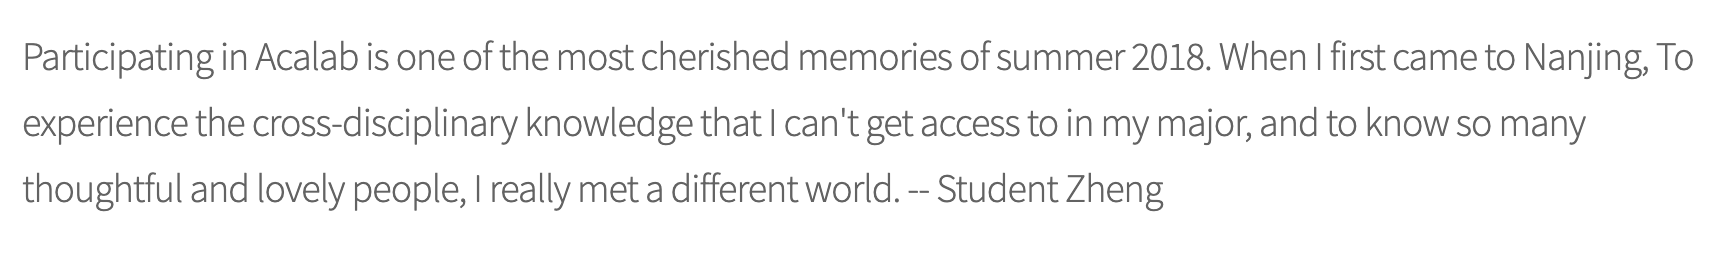
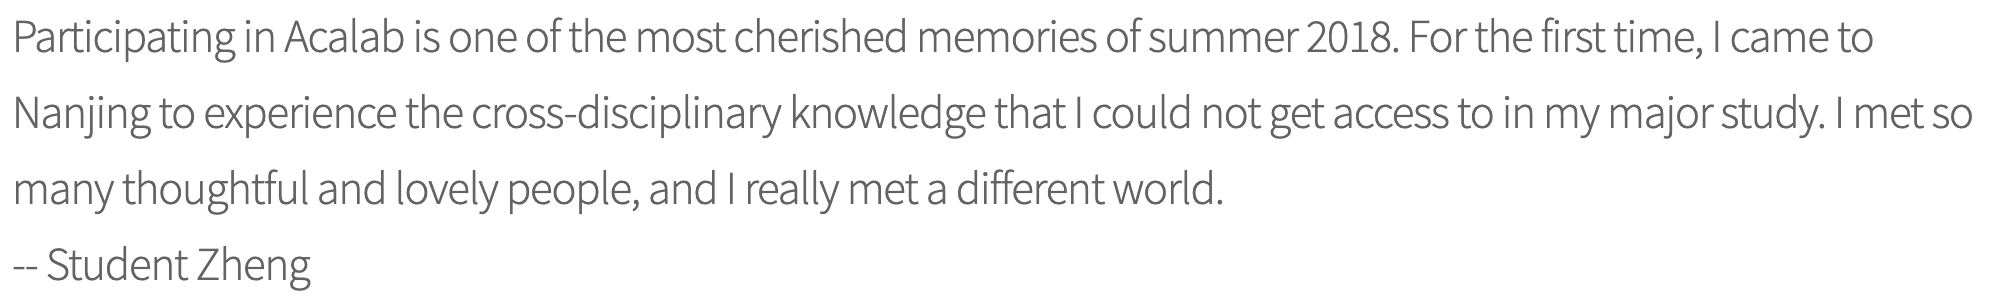
Project Updated

Changed region(s): [[0.0, 0.3031, 0.9907, 0.8268], [0.0, 0.0551, 0.9907, 0.3031], [0.0, 0.8268, 0.1548, 0.9646]]

diff --git a/final_project/main/index.html b/final_project/main/index.html
@@ -282,28 +282,45 @@
 									<h2>From Our Students and Tutors</h2>
 									<!-- Slideshow container -->
 									<div class="slideshow-container">
-
 										<!-- Full-width images with number and caption text -->
 										<div class="mySlides fade">
 										<div class="numbertext">1 / 3</div>
-										<img src="images/Zheng.png" style="width:100%">
+										<p>Participating in Acalab is one of the most cherished memories of summer 2018. 
+											For the first time, I came to Nanjing to experience the cross-disciplinary 
+											knowledge that I could not get access to in my major study. I met so many 
+											thoughtful and lovely people, and I really met a different world.
+											<br>
+											-- Student Zheng</p>
+										<!-- <img src="images/Zheng.png" style="width:100%"> -->
 										</div>
 									
-										<div class="mySlides begin fade">
+										<div class="mySlides fade">
 										<div class="numbertext">2 / 3</div>
-										<img src="images/Alex.png" style="width:100%">
+										<p>When exploring new problems with students, code alone is not enough to solve real problems; 
+											Must dig their own learned knowledge of other subjects, integrated, the process of teaching 
+											is also learning.
+											<br>
+											-- Tutor Alex
+											<br>
+											Rice 20'</p>
+										<!-- <img src="images/Alex.png" style="width:100%"> -->
 										</div>
 									
-										<div class="mySlides begin fade">
+										<div class="mySlides fade">
 										<div class="numbertext">3 / 3</div>
-										<img src="images/Wang.png" style="width:100%">
+										<p>It is painful to stay up late to write code after a day's class, but the super nice 
+											TA always patiently accompany us to debug and debug again and again. When we finally 
+											see the result, we feel everything is worth it.
+											<br>
+											-- Student Wang</p>
+										<!-- <img src="images/Wang.png" style="width:100%"> -->
 										</div>
 									
 										<!-- Next and previous buttons -->
-										<!-- <a class="prev" onclick="plusSlides(-1)">&#10094;</a>
+										<a class="prev" onclick="plusSlides(-1)">&#10094;</a>
 										<a class="next" onclick="plusSlides(1)">&#10095;</a>
 									</div>
-									<br> -->
+									<br>
 									
 									<!-- The dots/circles -->
 									<div style="text-align:center">
@@ -361,6 +378,42 @@
 			<script src="assets/js/breakpoints.min.js"></script>
 			<script src="assets/js/util.js"></script>
 			<script src="assets/js/main.js"></script>
+			<script>
+				var slideIndex = 1;
+				showSlides(slideIndex);
+
+				// Next/previous controls
+				function plusSlides(n) {
+				showSlides(slideIndex += n);
+				}
+
+				// Thumbnail image controls
+				function currentSlide(n) {
+				showSlides(slideIndex = n);
+				}
+
+				function showSlides(n) {
+				var i;
+				var slides = document.getElementsByClassName("mySlides");
+				var dots = document.getElementsByClassName("dot");
+				if (n > slides.length) {slideIndex = 1}
+				if (n < 1) {slideIndex = slides.length}
+				for (i = 0; i < slides.length; i++) {
+					slides[i].style.display = "none";
+					// slides[i].className = slides[i].className.replace(" active", "");
+				}
+				for (i = 0; i < dots.length; i++) {
+					dots[i].className = dots[i].className.replace(" active", "");
+				}
+				slides[slideIndex-1].style.display = "block";
+				dots[slideIndex-1].className += " active";
+				if (slides[0].style.display == "none" && slides[1].style.display == "none" && slides[2].style.display == "none") {
+					slides[0].style.display = "block";
+					dots[0].className += " active";
+				}
+				//   slides[slideIndex-1].className += " active";
+				}
+			</script>
 
 	</body>
 </html>

diff --git a/final_project/main/assets/css/main.css b/final_project/main/assets/css/main.css
@@ -3193,7 +3193,7 @@ input, select, textarea {
 		  }
 		  
 		  /* Hide the images by default */
-		  .begin {
+		  .mySlides {
 			display: none;
 		  }
 
@@ -3215,8 +3215,12 @@ input, select, textarea {
 		  }
 		  
 		  /* Position the "next button" to the right */
+		  .prev {
+			left: -5%;
+			border-radius: 3px 0 0 3px;
+		  }
 		  .next {
-			right: 0;
+			right: -5%;
 			border-radius: 3px 0 0 3px;
 		  }
 		  
@@ -3242,7 +3246,7 @@ input, select, textarea {
 			font-size: 12px;
 			padding: 8px 12px;
 			position: absolute;
-			top: 0;
+			top: -15%;
 		  }
 		  
 		  /* The dots/bullets/indicators */
@@ -4042,7 +4046,6 @@ input, select, textarea {
 				margin: 12px 15px 10px -15px;
 			}
 
-
 		}
 
 		@media screen and (max-width: 736px) {
@@ -4061,4 +4064,93 @@ input, select, textarea {
 				margin: 13px 15px 10px -15px;
 			}
 
+		}
+	
+		.bgimg {
+			/* Center the background image */
+			background-position: bottom;
+			/* Scale and zoom in the image */
+			background-size: cover;
+			/* Add position: relative to enable absolutely positioned elements inside the image (place text) */
+			position: relative;
+			/* Add a white text color to all elements inside the .bgimg container */
+			color: white;
+			/* Add a font */
+			font-family: "Courier New", Courier, monospace;
+			/* Set the font-size to 25 pixels */
+			font-size: 23px;
+		}
+
+		.timer {
+			text-align: center;
+			font-size: 27px;
+			margin-top: 0px;
+		}
+		  
+		/* Position text in the bottom-left corner */
+		.bottomleft {
+			position: absolute;
+			bottom: -5%;
+			left: 3%;
+			font-size: 20px;
+		}
+		  
+		/* Position text in the middle */
+		.middle {
+			position: absolute;
+			top: 50%;
+			left: 50%;
+			transform: translate(-50%, -50%);
+			text-align: center;
+		}
+
+		hr {
+			margin: auto;
+			width: 40%;
+		}
+		
+		@media screen and (max-width: 890px) {
+
+			.bgimg {
+				font-size: 20px;
+			}
+			.timer {
+				font-size: 21px;
+
+			}
+			.bottomleft {
+				position: absolute;
+				bottom: -5%;
+				left: 3%;
+				font-size: 17px;
+			}
+		}
+
+		@media screen and (max-width: 750px) {
+
+			.bgimg {
+				font-size: 16px;
+			}
+			.timer {
+				font-size: 19px;
+
+			}
+			.bottomleft {
+				position: absolute;
+				bottom: -5%;
+				left: 3%;
+			}
+		}
+		@media screen and (max-width: 600px) {
+			.bottomleft {
+				position: absolute;
+				bottom: -5%;
+				left: 3%;
+				font-size: 13px;
+			}
+		}
+		@media screen and (max-width: 550px) {
+			.bottomleft {
+				display: none;
+			}
 		}

diff --git a/final_project/main/Summer Summit.html b/final_project/main/Summer Summit.html
@@ -40,7 +40,17 @@
 
 						<!-- Content -->
 							<section id="content" class="main">
-								<span class="image main"><img src="Logo & pics/活动照片/IMG_6253.jpg" alt="" /></span>
+								<div class="bgimg">
+									<span class="image main"><img src="images/lab.webp"/></span>
+								<div class="middle">
+								<h1 style="color: white;">COMING SOON!</h1>
+								<hr />
+								<h2 class="timer" style="color: white;"></h2>
+								</div>
+								<div class="bottomleft">
+								<p>AcaLab Incubating...</p>
+								</div>
+								</div>
 								<h2>Student's Application Info</h2>
 									<p>
 									The Acalab Interdisciplinary Science Summit is not for profit. Fees collected will be used for inviting tutors and professors, conference operations, room and board for students and team members, lab expenses and other materials.
@@ -68,11 +78,12 @@
 									activity, participants will systematically understand the background knowledge of the subject, 
 									design and complete a research topic of interest, 
 									and develop the ability of critical academic thinking and independent research.</p>
-								
+									
 							</section>
-							
-					</div>
 
+														
+						</div>
+						
 				<!-- Footer -->
 				<footer id="footer">
 					<section>
@@ -109,6 +120,23 @@
 			<script src="assets/js/breakpoints.min.js"></script>
 			<script src="assets/js/util.js"></script>
 			<script src="assets/js/main.js"></script>
-
+			<script>
+				var countDownDate = new Date("June 30, 2021 23:59:59").getTime();
+				var timeClear = setInterval(function() {
+				   var now = new Date().getTime();
+				   var timeLeft = countDownDate - now;
+				   var days = Math.floor(timeLeft / (1000 * 60 * 60 * 24));
+				   var hours = Math.floor(
+					  (timeLeft % (1000 * 60 * 60 * 24)) / (1000 * 60 * 60)
+				   );
+				   var minutes = Math.floor((timeLeft % (1000 * 60 * 60)) / (1000 * 60));
+				   var seconds = Math.floor((timeLeft % (1000 * 60)) / 1000);
+				   document.querySelector(".timer").innerHTML = days + "d " + hours + "h " + minutes + "m " + seconds + "s ";
+				   if (timeLeft < 0) {
+					  clearInterval(timeClear);
+					  document.querySelector(".timer").innerHTML = "Timer Finished";
+				   }
+				}, 1000);
+			 </script>
 	</body>
 </html>

diff --git a/final_project/main/assets/js/main.js b/final_project/main/assets/js/main.js
@@ -123,37 +123,38 @@
 })(jQuery);
 
 
-var slideIndex = 1;
-showSlides(slideIndex);
+// var slideIndex = 1;
+// showSlides(slideIndex);
 
-// Next/previous controls
-function plusSlides(n) {
-  showSlides(slideIndex += n);
-}
+// // Next/previous controls
+// function plusSlides(n) {
+//   showSlides(slideIndex += n);
+// }
 
-// Thumbnail image controls
-function currentSlide(n) {
-  showSlides(slideIndex = n);
-}
+// // Thumbnail image controls
+// function currentSlide(n) {
+//   showSlides(slideIndex = n);
+// }
 
-function showSlides(n) {
-  var i;
-  var slides = document.getElementsByClassName("mySlides");
-  var dots = document.getElementsByClassName("dot");
-  if (n > slides.length) {slideIndex = 1}
-  if (n < 1) {slideIndex = slides.length}
-  for (i = 0; i < slides.length; i++) {
-      slides[i].style.display = "none";
-	// slides[i].className = slides[i].className.replace(" active", "");
-  }
-  for (i = 0; i < dots.length; i++) {
-      dots[i].className = dots[i].className.replace(" active", "");
-  }
-  slides[slideIndex-1].style.display = "block";
-  dots[slideIndex-1].className += " active";
-  if (slides[0].style.display == "none" && slides[1].style.display == "none" && slides[2].style.display == "none") {
-	slides[0].style.display = "block";
-	dots[0].className += " active";
-  }
-//   slides[slideIndex-1].className += " active";
-}
+// function showSlides(n) {
+//   var i;
+//   var slides = document.getElementsByClassName("mySlides");
+//   var dots = document.getElementsByClassName("dot");
+//   if (n > slides.length) {slideIndex = 1}
+//   if (n < 1) {slideIndex = slides.length}
+//   for (i = 0; i < slides.length; i++) {
+//       slides[i].style.display = "none";
+// 	// slides[i].className = slides[i].className.replace(" active", "");
+//   }
+//   for (i = 0; i < dots.length; i++) {
+//       dots[i].className = dots[i].className.replace(" active", "");
+//   }
+//   slides[slideIndex-1].style.display = "block";
+//   dots[slideIndex-1].className += " active";
+//   if (slides[0].style.display == "none" && slides[1].style.display == "none" && slides[2].style.display == "none") {
+// 	slides[0].style.display = "block";
+// 	dots[0].className += " active";
+//   }
+// //   slides[slideIndex-1].className += " active";
+// }
+
